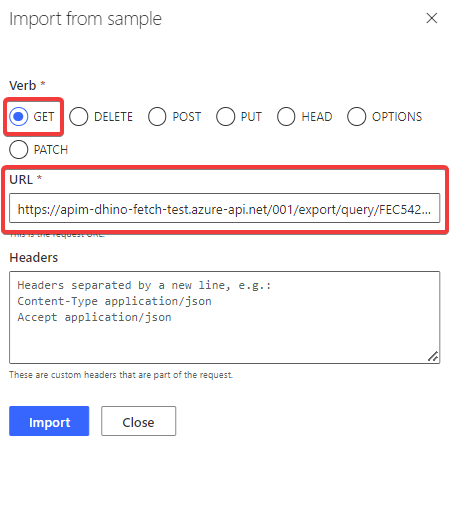
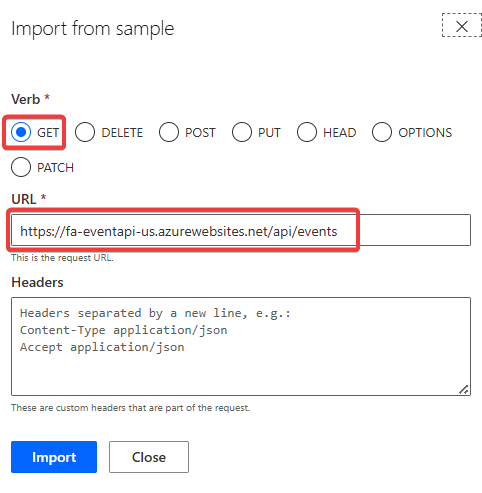
lab01 create demo data

diff --git a/docs/lab-01/index.md b/docs/lab-01/index.md
@@ -58,11 +58,20 @@ The Community Event API will be authenticated by an API Key in the Header of eac
 
 All done! Very important: **You do not need to enter any API Key in this step!** Authentication info is never stored directly in a Custom Connector but only ever in Connections. They will get created later when we are actually are using our Custom Connector.
 
-## ⚡ Create first simple definition
+## 📚 Create demo data
+
+The Event API is a multi tenant application which separates data per user. So as a first step we want to create demo data for it. In this case we are lucky, the Event API offers an action for this, so we don't have to type anything manual!
+
+Event API - Create Demo Data: **POST** request to this url: 
+**https://fa-eventapi-us.azurewebsites.net/api/setup/CreateDemoData** 
+
+We can use this as an ideal test to add the first action to our connector!
 
 Click on **Definition** to get to the next step of creating a Custom Connector, the stage where we define the actual actions which are possible to execute for this Custom Connector.
 
 In this screen you see all actions, triggers, references and policies you have added to your connector. Since we create from Blank this screen will be empty.
+
+### Add action
 
 Let's change that by adding our very first action by clicking on **New Action**
 
@@ -78,12 +87,7 @@ Creating an action consists of three steps:
 
 ### Naming / Description
 
-As a minimum you need to enter a unique id for this action. Choose a name which is easily recognizable and not a typical "id" because later on other actions use this id to refer to it.
-
-We want to call the Community Event API to get a list of all available events, which we can call it with a **GET** request to this url:
-**<https://apim-dhino-fetch-prod-002.azure-api.net/002/export/query/FF4740ED-7415-4D36-80A7-7E7C565806AA/974BB697-57A4-4132-8A6E-C6E11BCE5493/EVENTS>** **TODO**
-
-The two GUIDs in the URL are referencing the environment we want to target and we will consider them static for now, they point to the community database in our community tenant.
+As a minimum you need to enter a unique id for this action. Choose a name which is easily recognizable and not a typical "id" because later on other actions use this id to refer to it. You can you **post-demodata** for this one.
 
 ### Request
 
@@ -91,11 +95,11 @@ Pick an id for this operation and we will go on the **Request** part of it.
 
 The wizard has a great feature called **Import from Example** where you can copy paste an existing request (for example from documentation or lab instructions on GitHub), an the wizard will extract all needed information.
 
-!["Create Request from Example"](./assets/0103_01_requestexample.png)
+!["Create Request from Example"](./assets/0103_03_requestexample_post.png)
 
 In the opened dialog fill in the URL and HTTP method from above. Since this is a simple request with no further information you are all set to go and can click **Import**
 
-!["Create From Example Details"](./assets/0103_02_requestexampledetails.png) **TODO**
+!["Create From Example Details"](./assets/0103_04_requestexampledetails_post.png) 
 
 Congrats, your connector has its first action! 🥳 Let's quickly test if we did all steps correctly so far.
 
@@ -121,13 +125,47 @@ You will be redirect to the test screen. If the **Connection** field is still em
 
 With that we are ready to test! On the left hand you can select the action, and since we only have one which has no parameter you can click directly on **Test**
 
+!["Test Operation"](./assets/0104_06_testoperation_post.png)
+
+If all is set up correct and the connection has the right API Key you will see the result of that API call with a HTTP status 200.
+
+!["Test Result"](./assets/0104_07_testresult_post.png)
+
+First call made by your Custom Connector to the Event API!
+
+## ⚡ Create first real action 
+
+Next we want to test if the demo data was created and add our first real API call to get all event data. The Event API offers this url to get a list of all available events:
+
+Event API - Get Events: **GET** request to this url: 
+**https://fa-eventapi-us.azurewebsites.net/api/events**  
+
+### Request
+
+Follow the same steps as we did for the Create Demo Data operation:
+
+1. Pick an id for this operation and we will go on the **Request** part of it.
+1. Use the **Import from Example** to create the action
+
+!["Create Request from Example"](./assets/0103_01_requestexample.png)
+
+In the opened dialog fill in the URL and HTTP method from above. Since this is a simple request with no further information you are all set to go and can click **Import**
+
+!["Create From Example Details"](./assets/0103_02_requestexampledetails.png) 
+
+1. Update the connector using **Update Connector** and wait until it is finished saving
+
+!["Update Connector"](./assets/0104_08_updateconnector.png) 
+
+### Saving and Testing
+
+1. Test the action under **Test** the same way we did before: On the left select the action, and since this one has no parameter you can click directly on **Test**
+
 !["Test Operation"](./assets/0104_04_testoperation.png)
 
 If all is set up correct and the connection has the right API Key you will see the result of that API call with a HTTP status 200.
 
 !["Test Result"](./assets/0104_05_testresult.png)
-
-First call made by your Custom Connector to the Community Event API!
 
 We will do one more step though, as you might noticed we skip one step in the definition part, the definition of the **Result** of our operation. Since we now have the result JSON let's add it!
 
@@ -164,14 +202,11 @@ First we will create more detailed descriptions of the actions themselves. With 
 
 Add descriptions of what the action is doing, what parameters are needed and what the expected result is. **Do this for all future actions you will add later in these labs as well!**
 
-| Property | What to use it for | 
-|-----|-------------|
-| **Lab 00** | Preparation | 
-| **Lab 01** | Build your first connector |
-| **Lab 02** | Make your connector dynamic | 
-| **Lab 03** | Advanced Custom Connector functions | 
-| **Lab 04** | Copilot Studio integration | 
-**TODO**
+| Property | What to use it for | Best Practice
+|-----|-------------|-------------|
+| **Summary** | Title of action | Use a sentence like "Get all events"
+| **Description** | Verbose explanation of operation's functionality | Use longer sentances like "Return all events available including all their attributes"
+| **Operation ID** | Unique string to identify action | Used internally, use a consistent naming scheme for it
 
 !["Action Details"](./assets/0107_01_actiondetails.png)
 
@@ -185,6 +220,8 @@ Visibility in Power Automate will be displayed like this
 
 So by taking care of these properties, you make your connectors a lot easier to use and more professionally looking. But at the same time, you also prepare them for AI 🙂
 
+Remember to **Update Connector** after you make these changes as well.
+
 ## 🎯 Create an operation with parameter
 
 Let's get into the more interesting stuff, let's make more dynamic operations. You saw that the GET/Events action only returned one event because the environment has this global filter, so let's check out the connected records. For this we will add **Tracks** and **Sessions** with the goal of getting only session of a certain track.
@@ -197,7 +234,7 @@ Follow the same steps as we did in the operation, starting on the **Definition**
 
 !["New Action](./assets/0106_01_newaction.png)
 
-The action is again a GET call to the following URL **<https://apim-dhino-fetch-prod-002.azure-api.net/002/export/query/FF4740ED-7415-4D36-80A7-7E7C565806AA/974BB697-57A4-4132-8A6E-C6E11BCE5493/TRACKS>**  **TODO**
+The action is again a GET call to the following URL **https://fa-eventapi-us.azurewebsites.net/api/events/tracks>**  **TODO**
 
 After following the same steps as we did for the GET/EVENTS, you should see a test result like this:
 
